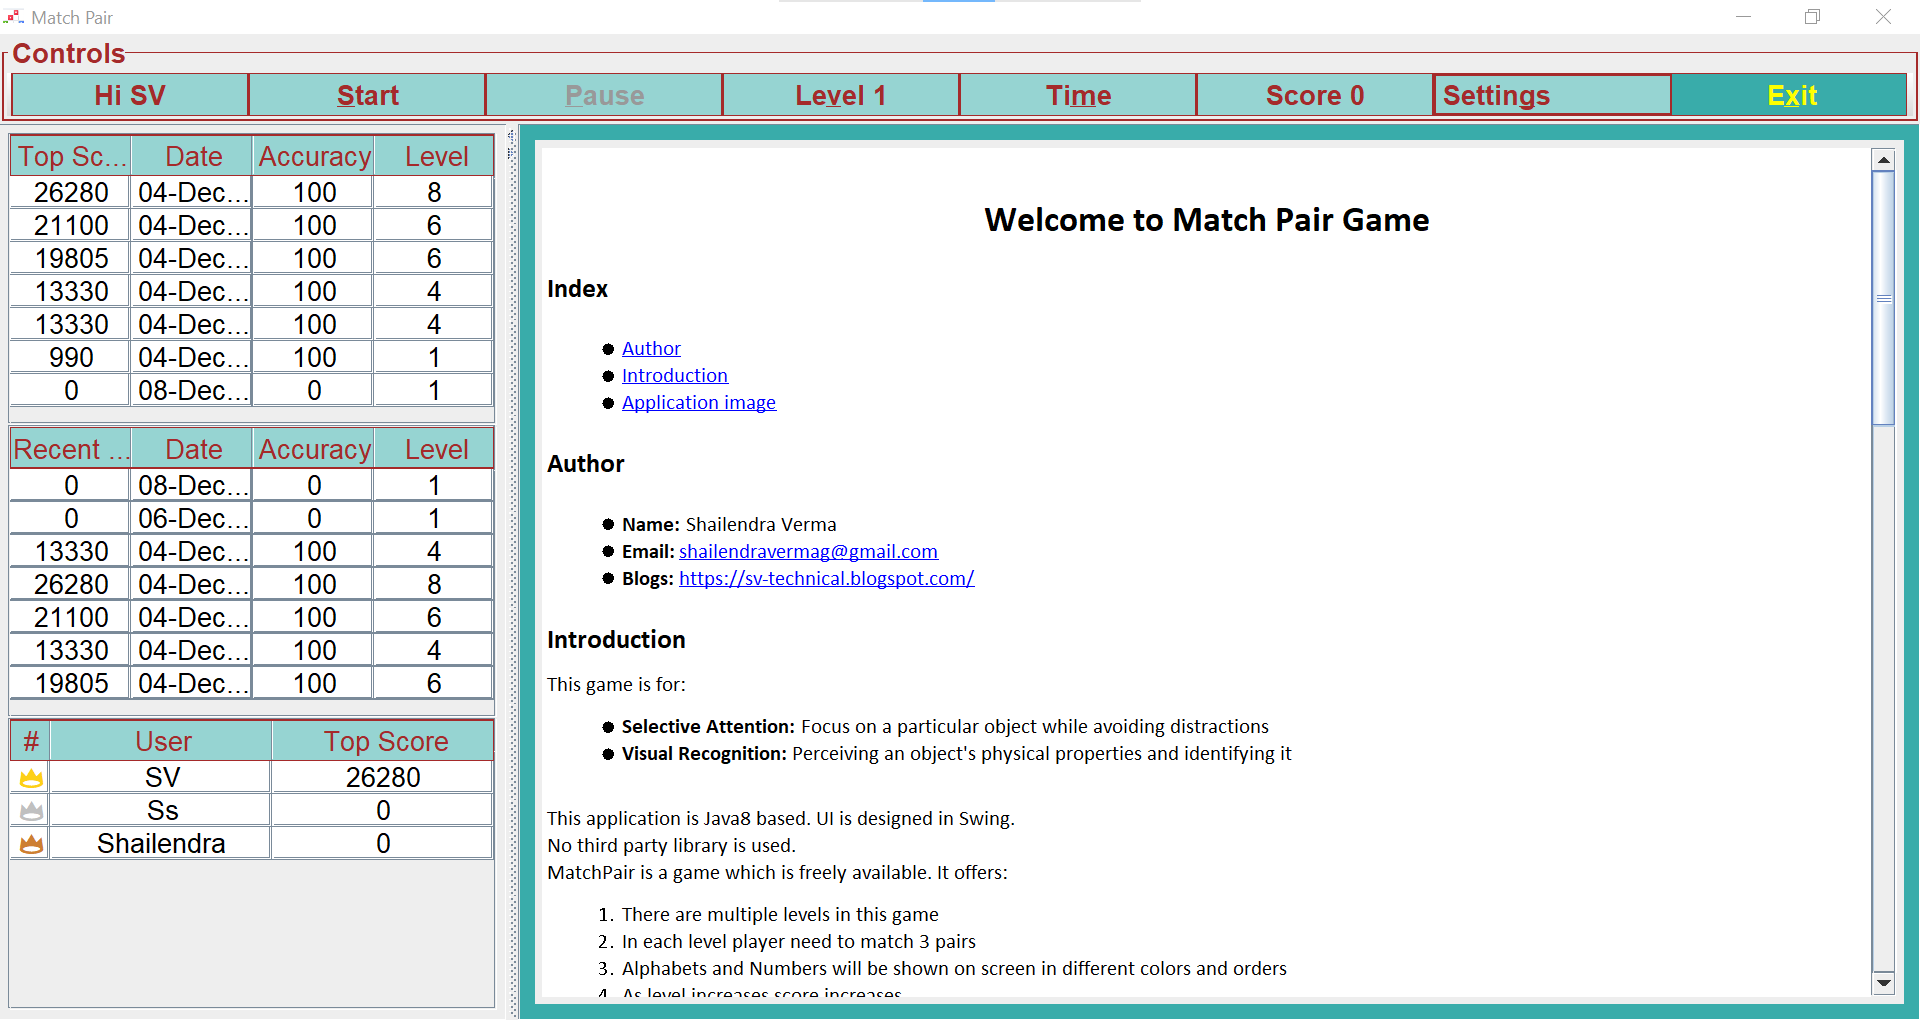
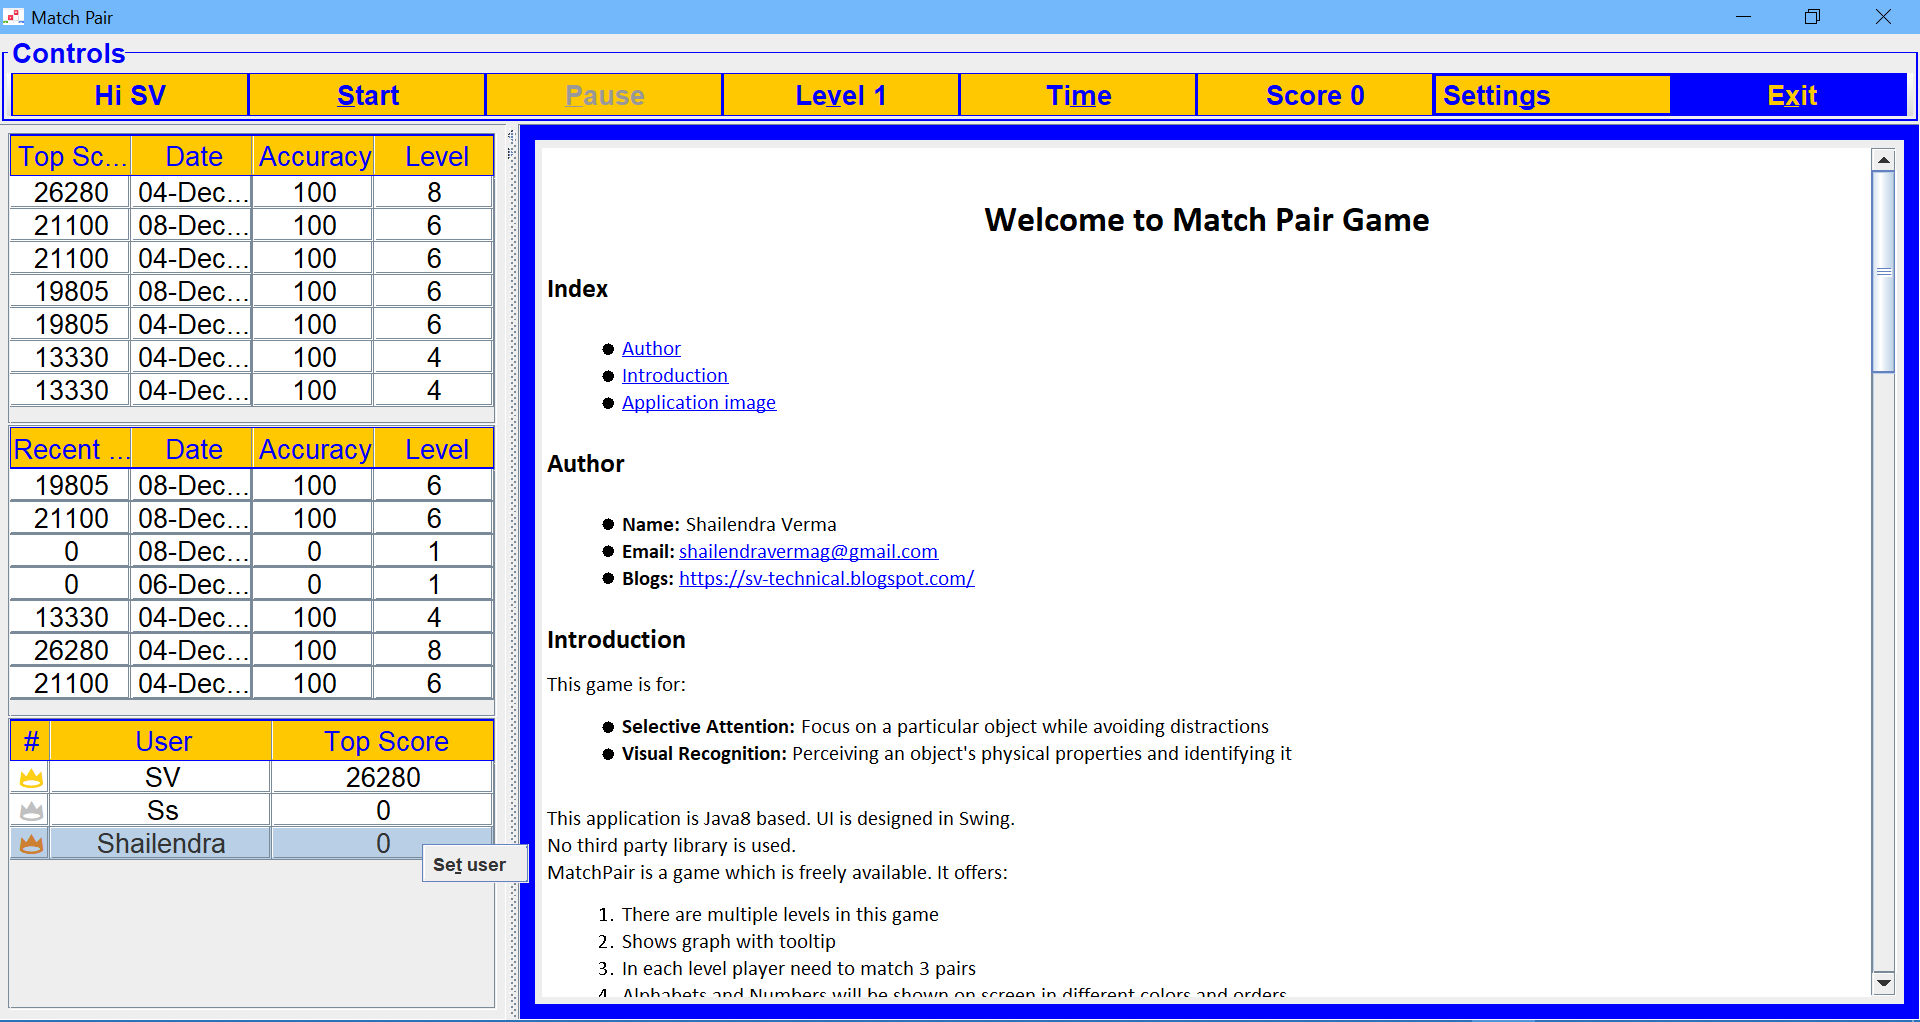
context menu

diff --git a/help.html b/help.html
@@ -27,6 +27,7 @@ This game is for:
 <ol>
     <li>There are multiple levels in this game</li>
     <li>Shows graph with tooltip</li>
+    <li>User can be changed from existing list using right click menu</li>
     <li>In each level player need to match 3 pairs</li>
     <li>Alphabets and Numbers will be shown on screen in different colors and orders</li>
     <li>As level increases score increases</li>

diff --git a/src/main/java/com/sv/matchpair/MatchPair.java b/src/main/java/com/sv/matchpair/MatchPair.java
@@ -66,6 +66,7 @@ public class MatchPair extends AppFrame {
     private Map<String, GameScores> gameScores;
     private Map<Character, List<GameButton>> gamePairs;
 
+    private JPopupMenu tblUsersPopupMenu = new JPopupMenu();
     private TitledBorder titledBorder;
     private JMenuBar menuBar;
     private AppMenu menu;
@@ -422,6 +423,24 @@ public class MatchPair extends AppFrame {
         tblTopScore.setTableHeader(new AppTableHeaderToolTip(tblTopScore.getColumnModel(), topScoreCols));
         tblRecentScore.setTableHeader(new AppTableHeaderToolTip(tblRecentScore.getColumnModel(), recentScoreCols));
         tblUsers.setTableHeader(new AppTableHeaderToolTip(tblUsers.getColumnModel(), userCols));
+
+        UIName uin = UIName.MI_SETUSER;
+        JMenuItem tblUserMISetUser = new JMenuItem(uin.name, uin.mnemonic);
+        tblUserMISetUser.addActionListener(evt -> setUsernameFromUser());
+        tblUsersPopupMenu.add(tblUserMISetUser);
+        // sets the popup menu for the table
+        tblUsers.setComponentPopupMenu(tblUsersPopupMenu);
+        tblUsers.setOpaque(true);
+        tblUsers.addMouseListener(new MouseAdapter() {
+            @Override
+            public void mousePressed(MouseEvent e) {
+                if (SwingUtilities.isRightMouseButton(e)) {
+                    tblUsers.clearSelection();
+                    int row = tblUsers.rowAtPoint(e.getPoint());
+                    tblUsers.addRowSelectionInterval(row, row);
+                }
+            }
+        });
 
         setTable(tblTopScore, topScoreModel);
         setTable(tblRecentScore, recentScoreModel);
@@ -1001,15 +1020,22 @@ public class MatchPair extends AppFrame {
         txtUser.selectAll();
     }
 
+    private void setUsernameFromUser() {
+        setUsername(tblUsers.getValueAt(tblUsers.getSelectedRow(), 1).toString());
+    }
+
+    private void setUsername(String un) {
+        username = Utils.convertToTitleCase(un);
+        btnUser.setText(UIName.BTN_USER.name + SPACE + username);
+        // just to hide controls
+        doNotSaveUsername();
+        storeAndLoad();
+        updateUNAutoComplete();
+    }
+
     private void saveUsername() {
         if (isValidName(txtUser.getText().trim())) {
-            username = txtUser.getText().trim();
-            username = Utils.convertToTitleCase(username);
-            btnUser.setText(UIName.BTN_USER.name + SPACE + username);
-            // just to hide controls
-            doNotSaveUsername();
-            storeAndLoad();
-            updateUNAutoComplete();
+            setUsername(txtUser.getText().trim());
         } else {
             getToolkit().beep();
             if (username.length() > MAX_NAME) {

diff --git a/src/main/java/com/sv/matchpair/UIName.java b/src/main/java/com/sv/matchpair/UIName.java
@@ -14,6 +14,7 @@ public enum UIName {
     LBL_SCORE("Score", 'l', "Score of the game"),
     LBL_TIME("Time", 'm', "Time remaining of the game"),
     MENU("Settings", 'g', "Different system settings"),
+    MI_SETUSER("Set user", 't', "Set user"),
     MI_HISTORY("History", 'y', "Scores history"),
     MI_HELP("Help", 'h', "Help about game"),
     MI_HELP_BROWSER("Help in browser", 'w', "Open help in browser");

diff --git a/README.md b/README.md
@@ -21,6 +21,7 @@
 * It's a GAME !!!
 * User can start game that is for 80 seconds
 * Shows graph with tooltip
+* User can be changed from existing list using right click menu
 * At the end of game, next matching pair will be highlighted
 * If wrongly clicked if will warn user
 * Game rule - in each level you need to match 3 pairs and level will increase.
